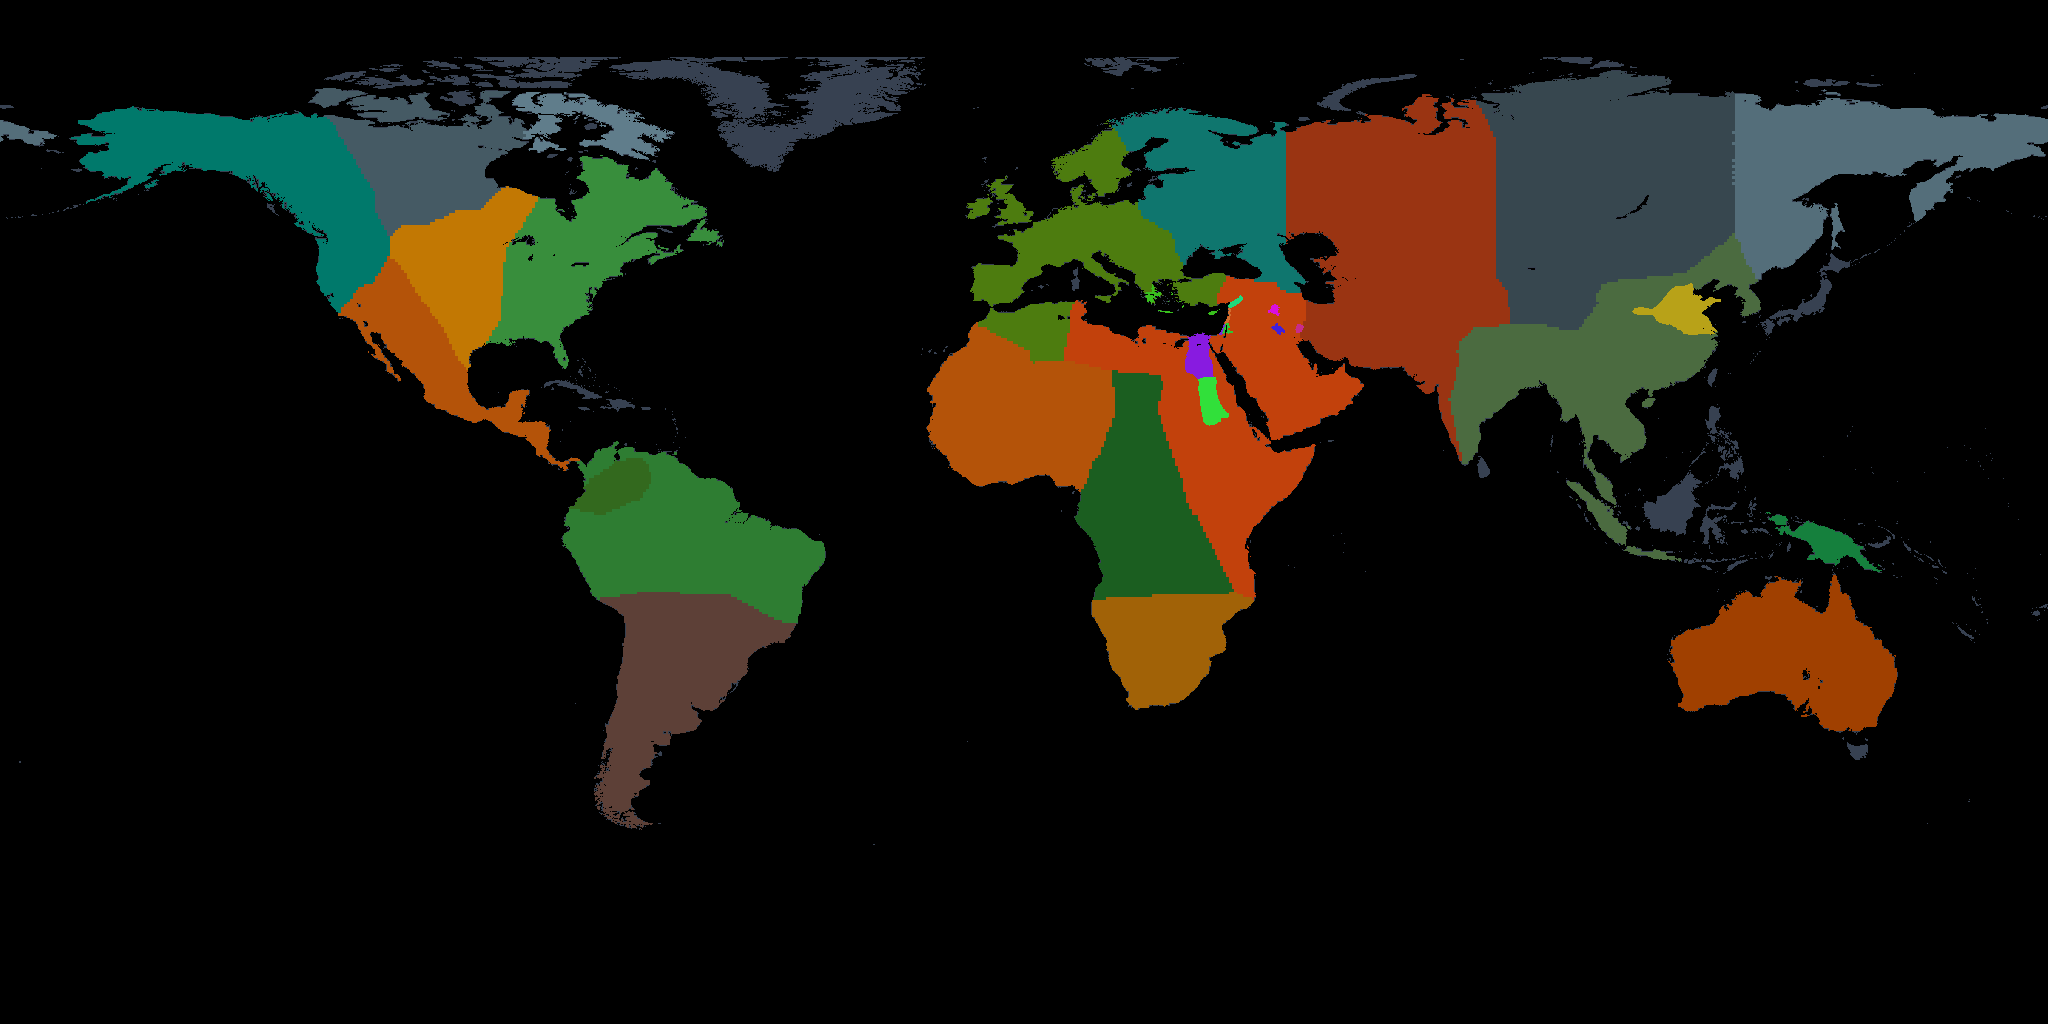
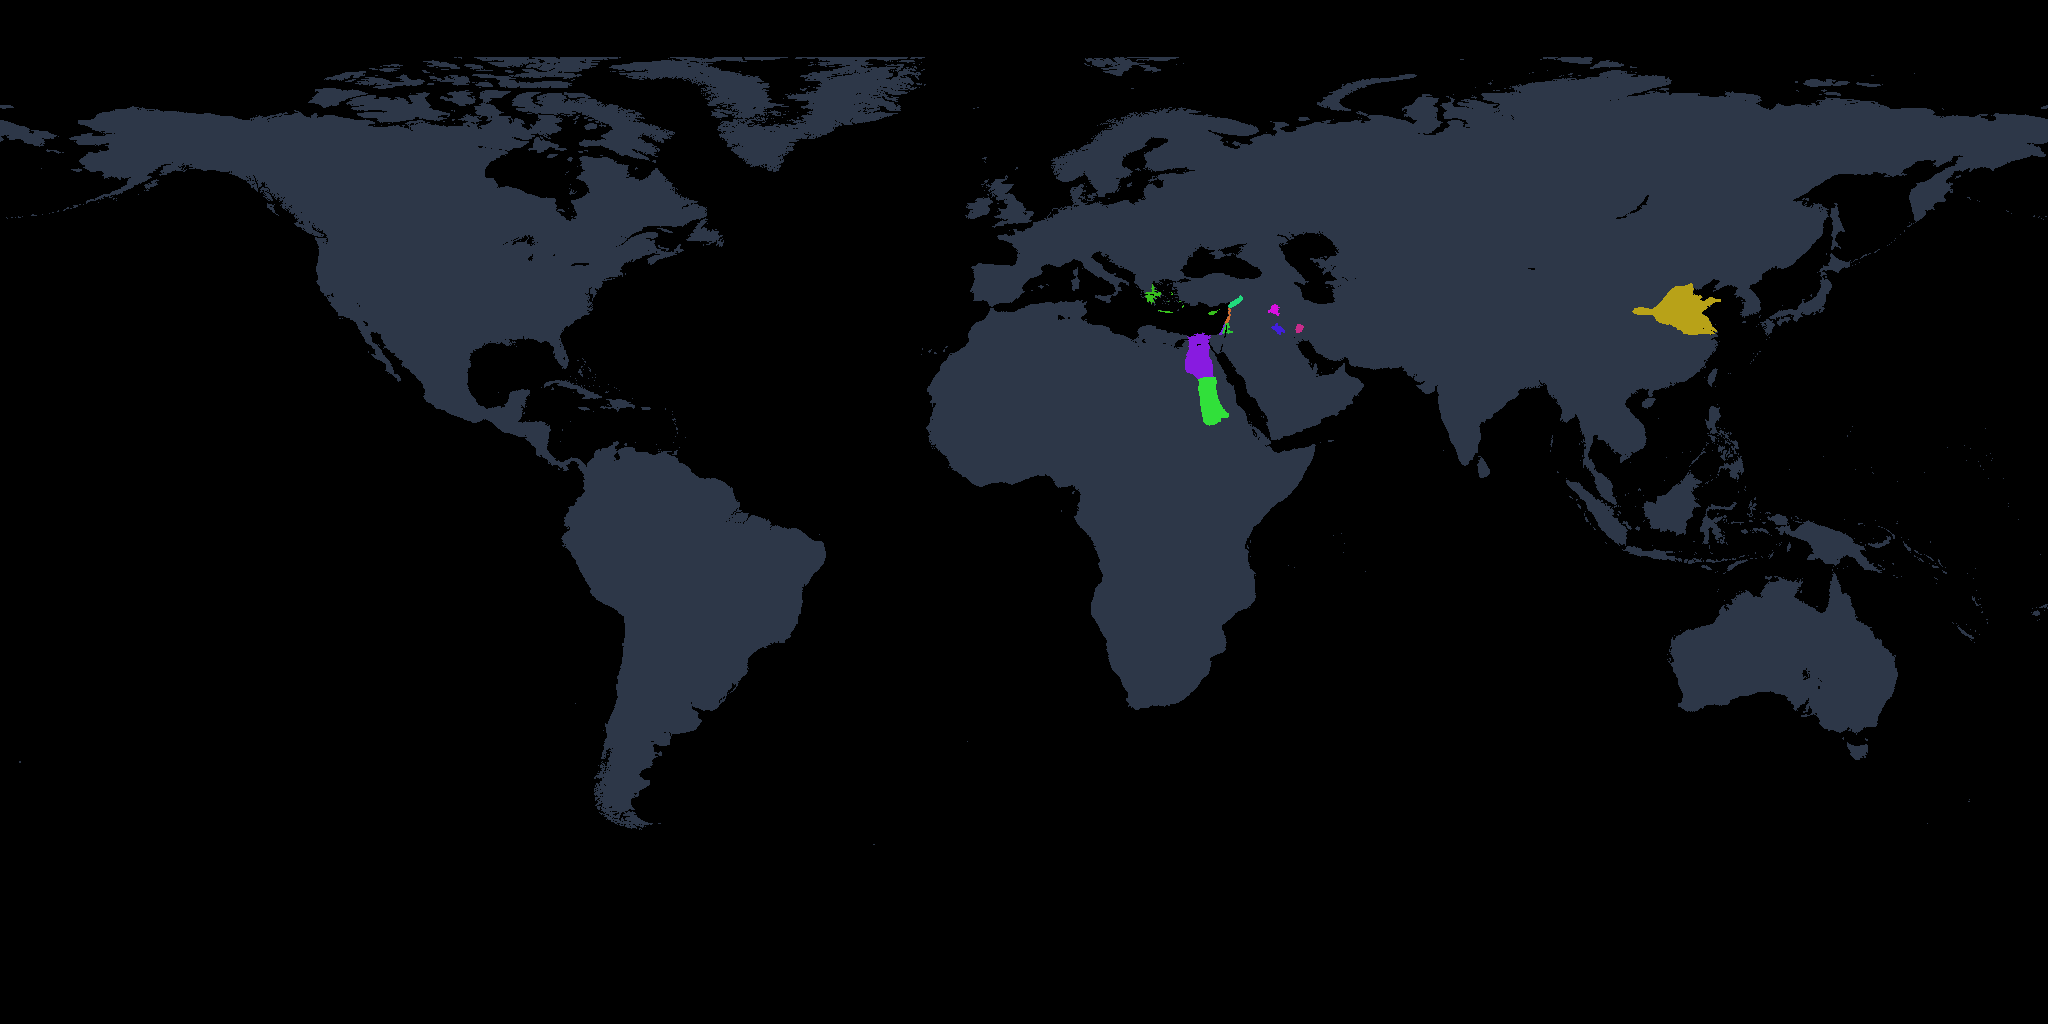
Refine Year 0 cartographic tensors: WHYMAP aquifers, non-state sovereignty slate, and ancient precious metals

Changed region(s): [[0.4375, 0.0938, 1.0, 0.6875], [0.0, 0.0625, 0.4062, 0.8125], [0.8125, 0.5, 0.9375, 0.7188]]

diff --git a/src/main/java/org/ether/society/data/HistoricalMapGenerator.java b/src/main/java/org/ether/society/data/HistoricalMapGenerator.java
@@ -2784,8 +2784,8 @@ public class HistoricalMapGenerator {
                 } else {
                     int currentRgb = sovImg.getRGB(x, y) & 0xFFFFFF;
                     if (currentRgb == 0x374151 || currentRgb == 0x000000) {
-                        int tribalColor = (tribalBg != null) ? tribalBg.getRGB(x, y) : 0x374151;
-                        sovImg.setRGB(x, y, tribalColor);
+                        int unassignedColor = (year >= 1900L && tribalBg != null) ? tribalBg.getRGB(x, y) : 0x2D3748;
+                        sovImg.setRGB(x, y, unassignedColor);
                     }
                 }
             }
@@ -4959,39 +4959,73 @@ public class HistoricalMapGenerator {
     }
 
     public static BufferedImage rasterizePreciousMetalsMap(String type, Scenario scenario) {
-        if (cachedPreciousMetalsMap != null) return cachedPreciousMetalsMap;
         int width = 2048, height = 1024;
         BufferedImage img = new BufferedImage(width, height, BufferedImage.TYPE_INT_RGB);
-        // Dedicated authentic metallogeny for Gold, Silver & Platinum (Ancient + Global Giant Reserves)
+        // Dedicated authentic metallogeny for Gold, Silver & Platinum (Ancient Mines + Global Giant Metallogenic Provinces)
         double[][] majorPrecious = {
-            // Authentic Ancient Historical Gold & Silver Mines (Antiquity & Medieval)
-            {-6.77, 42.46, 28, 2.5},  // Las Médulas (Hispania / Rome - World's Largest Ancient Gold Mine)
-            {-6.56, 37.69, 26, 2.4},  // Rio Tinto (Hispania / Rome - Silver & Gold)
-            {24.06, 37.71, 24, 2.3},  // Laurion (Attica / Greece - Silver of Classical Athens)
-            {23.13, 46.30, 26, 2.4},  // Roșia Montană / Dacia (Roman Imperial Gold Mines)
-            {33.50, 22.00, 28, 2.4},  // Nubia / Wadi Allaqi (Pharaonic & Ptolemaic Gold)
-            {67.50, 39.50, 26, 2.3},  // Bactria / Zeravshan Valley Gold (Sogdia / Silk Road)
-            {78.27, 12.96, 25, 2.2},  // Kolar Gold Fields (India / Maurya Empire)
-            {85.00, 50.00, 28, 2.3},  // Altai Mountains Gold Placers (Scythian Gold)
-            {-76.60, 5.70, 26, 2.2},   // Chocó / Calima (Colombia - Pre-Columbian Gold)
-            {-70.20, -14.20, 26, 2.3}, // Carabaya / Lake Titicaca (Peru - Inca Gold)
-            {138.30, 38.00, 24, 2.2}, // Sado Island Gold Mine (Japan)
+            // --- 1. Roman Empire, Hellenistic & Mediterranean Ancient Districts (Au, Ag, PGE) ---
+            {-6.77, 42.46, 4.5, 4.0},   // Las Médulas (León, Hispania - World's Largest Roman Hydraulic Gold Mine)
+            {-6.56, 37.69, 4.2, 3.8},   // Rio Tinto / Tharsis (Baetica / Huelva - Roman Silver & Gold Smelting)
+            {-4.84, 38.77, 4.0, 3.4},   // Almadén / Sierra Morena (Hispania - Roman Cinnabar, Silver & Gold)
+            {-8.10, 42.15, 3.8, 3.0},   // Castromao / Galicia Roman Gold Placers
+            {-6.60, 40.20, 3.8, 3.0},   // Sierra de Gata / Tagus Auriferous Alluvium
+            {24.06, 37.71, 4.5, 4.0},   // Laurion (Attica, Greece - Classical Athenian Silver Mines / Owl Tetradrachms)
+            {24.20, 40.90, 4.2, 3.6},   // Mount Pangaeon / Philippi (Macedonian Gold of Philip II & Alexander)
+            {23.13, 46.30, 4.5, 4.0},   // Roșia Montană / Alburnus Major (Dacia / Apuseni Mountains - Roman Imperial Gold)
+            {21.43, 42.62, 4.0, 3.2},   // Novo Brdo / Trepča (Balkans Silver & Gold)
+            {22.18, 42.08, 3.8, 3.0},   // Kratovo / Osogovo (Thracian/Roman Gold)
+            {24.70, 36.97, 3.2, 2.8},   // Siphnos (Cyclades Archaic Gold & Silver)
+            {8.03, 45.55, 4.0, 3.2},    // Victimulae / Bessa (Piedmont, Italy - Roman Gold Placers)
+            {7.30, 45.74, 3.8, 3.0},    // Val d'Aosta Roman Gold Veins
 
-            // Giant Global Metallogenic Provinces
-            {27.0, -26.5, 45, 2.8},   // Witwatersrand (South Africa - Giant Conglomerate Gold)
-            {29.0, -24.5, 42, 2.6},   // Bushveld Complex Platinum (South Africa)
-            {-116.0, 40.8, 38, 2.5},  // Carlin Trend Nevada (USA - Epithermal Gold)
-            {-65.7, -19.6, 42, 2.7},  // Potosí Cerro Rico (Bolivia - Giant Silver Mountain)
-            {121.5, -30.7, 36, 2.4},  // Kalgoorlie Golden Mile (Australia)
-            {64.6, 41.5, 38, 2.5},    // Muruntau (Uzbekistan - World's Largest Open-Pit Gold)
-            {88.2, 69.3, 40, 2.6},    // Norilsk-Talnakh PGMs (Russia)
-            {-81.0, 46.5, 35, 2.3},   // Sudbury Basin (Canada - PGMs/Au)
-            {-78.5, -7.0, 36, 2.4},   // Yanacocha (Peru - Epithermal Gold)
-            {137.1, -4.0, 38, 2.5}    // Grasberg (Indonesia - Porphyry Au/Cu)
+            // --- 2. Egypt, Nubia, Arabia & Near East (Pharaonic, Ptolemaic, Lydian & Persian) ---
+            {33.50, 22.00, 4.5, 3.8},   // Wadi Allaqi / Nubian Gold Belt (Pharaonic & Ptolemaic Gold / Nub means Gold)
+            {33.58, 25.99, 4.2, 3.5},   // Wadi Hammamat / Coptos (Gold Road of Pharaohs)
+            {34.80, 24.95, 4.2, 3.5},   // Sukari / Eastern Desert Gold (Egypt)
+            {40.87, 23.50, 4.5, 3.6},   // Mahd adh Dhahab (Cradle of Gold, Hejaz, Arabia - Ancient Gold Mine)
+            {28.04, 38.49, 4.2, 3.8},   // Sardis / Pactolus River (Lydia Electrum - Birth of Coinage)
+            {42.60, 42.25, 4.0, 3.4},   // Colchis / Svaneti Gold Placers (Georgia - Golden Fleece)
+            {44.38, 41.38, 3.8, 3.2},   // Sakdrisi / Bolnisi (Georgia - World's Oldest Known Gold Mine)
+            {67.50, 39.50, 4.5, 3.6},   // Zeravshan Valley / Sogdia (Bactrian & Silk Road Gold)
+
+            // --- 3. India, Central Asia & East Asia ---
+            {78.27, 12.96, 4.5, 3.8},   // Kolar Gold Fields (Karnataka, India - Maurya / Satavahana Gold)
+            {76.65, 16.20, 4.0, 3.2},   // Hutti Gold Mines (Raichur, India)
+            {85.00, 50.00, 4.5, 3.6},   // Altai Mountains Auriferous Placers (Scythian Nomadic Gold)
+            {120.40, 37.36, 4.5, 3.8},  // Zhaoyuan / Jiaodong Peninsula (Shandong, China - China's Gold Capital)
+            {117.81, 30.93, 4.2, 3.4},  // Tongling / Yangtze Copper-Gold Belt (Han Dynasty)
+            {112.50, 23.00, 4.0, 3.2},  // Lingnan / Pearl River Gold Placers (Southern China)
+            {138.30, 38.00, 4.0, 3.2},  // Sado Island Gold Mine (Japan)
+
+            // --- 4. Sub-Saharan Africa ---
+            {-11.50, 13.50, 4.8, 3.6},  // Bambouk / Falémé Goldfields (West Africa - Ancient Trans-Saharan Gold)
+            {-9.50, 11.50, 4.8, 3.6},   // Bure Goldfields (Upper Niger River)
+            {-1.67, 6.20, 4.8, 3.8},    // Ashanti Gold Belt / Obuasi (Ghana - Gold Coast)
+            {30.00, -20.00, 4.5, 3.4},  // Great Zimbabwe / Shona Gold Belt
+
+            // --- 5. Americas (Pre-Columbian & Historic Mining Districts) ---
+            {-76.60, 5.70, 4.8, 3.8},   // Chocó & Calima (Colombia - Pre-Columbian Gold & Platinum Placers)
+            {-79.50, -6.70, 4.5, 3.5},  // Moche / Lambayeque Valley (Peru - Ancient Sican/Moche Gold)
+            {-70.20, -14.20, 4.5, 3.6}, // Carabaya & Lake Titicaca Gold Belt (Inca Coricancha Gold)
+            {-65.75, -19.58, 5.5, 4.2}, // Cerro Rico / Potosí (Bolivia - Giant Silver Mountain)
+            {-102.58, 22.77, 5.0, 3.8}, // Zacatecas / Guanajuato Silver Belt (Mexico)
+
+            // --- 6. Giant Global Metallogenic Provinces (In-situ Crustal Endowments) ---
+            {27.0, -26.5, 6.0, 4.5},    // Witwatersrand Basin (South Africa - Giant Conglomerate Au)
+            {29.0, -24.5, 5.5, 4.2},    // Bushveld Complex Platinum Group Elements (South Africa)
+            {64.6, 41.5, 5.5, 4.2},     // Muruntau (Uzbekistan - World's Largest Open-Pit Gold Deposit)
+            {-116.0, 40.8, 5.0, 4.0},   // Carlin Trend (Nevada, USA - Giant Epithermal Au)
+            {121.5, -30.7, 5.0, 4.0},   // Kalgoorlie Golden Mile (Western Australia)
+            {150.8, 62.5, 5.5, 4.0},    // Kolyma / Magadan Gold Belt (Russia)
+            {88.2, 69.3, 5.5, 4.2},     // Norilsk-Talnakh PGMs & Au (Siberia, Russia)
+            {-81.0, 46.5, 4.8, 3.6},    // Sudbury Basin (Ontario, Canada - PGMs/Au)
+            {-78.5, -7.0, 5.0, 3.8},    // Yanacocha (Cajamarca, Peru - Epithermal Au)
+            {137.1, -4.0, 5.2, 4.0},    // Grasberg (Papua, Indonesia - Supergiant Au/Cu)
+            {116.36, -32.8, 4.8, 3.6}   // Boddington (Western Australia)
         };
         var list = new java.util.ArrayList<double[]>();
         for (double[] p : majorPrecious) list.add(p);
-        rasterizeSpotListToAlpha(img, list, Color.WHITE, 6.0);
+        rasterizeSpotListToAlpha(img, list, Color.WHITE, 4.5);
         cachedPreciousMetalsMap = img;
         return img;
     }
@@ -5116,52 +5150,72 @@ public class HistoricalMapGenerator {
     }
 
     public static BufferedImage rasterizeAquiferMap(String type, Scenario scenario) {
-        if (cachedAquiferMap != null) return cachedAquiferMap;
         int width = 2048, height = 1024;
         BufferedImage img = new BufferedImage(width, height, BufferedImage.TYPE_INT_RGB);
         BufferedImage mask = loadElevationMask();
 
         // Authentic UNESCO WHYMAP 2022 Regional Sedimentary Basin Groundwater Formations
-        // {centerLon, centerLat, semiLon, semiLat, maxLuminance}
+        // {centerLon, centerLat, semiLon, semiLat, angleDeg, maxLuminance}
         double[][] sedimentaryAquiferBasins = {
             // Nubian Sandstone Aquifer System (NSAS - Egypt, Libya, Chad, Sudan: 2.2M km²)
-            {25.0, 22.0, 10.0, 8.5, 230.0},
+            {25.0, 22.0, 11.5, 9.0, 15.0, 240.0},
             // Ogallala / High Plains Aquifer (US Midwest: 450,000 km²)
-            {-100.5, 38.0, 4.5, 6.0, 215.0},
+            {-101.0, 38.0, 4.8, 6.5, -10.0, 230.0},
             // Guaraní Aquifer System (Paraná Basin - Brazil, Paraguay, Argentina, Uruguay: 1.2M km²)
-            {-54.0, -25.0, 7.5, 9.0, 225.0},
+            {-54.0, -25.0, 8.0, 10.0, 25.0, 235.0},
             // Great Artesian Basin (GAB - Eastern/Central Australia: 1.7M km²)
-            {139.0, -25.5, 9.0, 8.5, 230.0},
+            {140.0, -25.5, 9.5, 9.0, -15.0, 240.0},
             // Northwest Sahara Aquifer System (NWSAS / SASS - Algeria, Tunisia, Libya: 1.0M km²)
-            {6.0, 31.0, 8.0, 4.5, 210.0},
-            // Indo-Gangetic Alluvial Aquifer (Indus, Ganges, Brahmaputra Foreland Basin)
-            {78.0, 27.5, 12.0, 3.5, 220.0},
+            {6.0, 31.0, 8.5, 5.0, 10.0, 225.0},
+            // Indo-Gangetic Alluvial Foreland Basin (Indus, Ganges, Brahmaputra)
+            {79.0, 27.0, 14.0, 4.0, -20.0, 235.0},
             // North China Plain Cenozoic Aquifer (Huang-Huai-Hai Plain)
-            {116.5, 37.0, 4.5, 4.0, 210.0},
-            // West Siberian Artesian Basin (Vast Mesozoic-Cenozoic Sedimentary Basin)
-            {72.0, 59.0, 12.0, 7.0, 215.0},
+            {116.5, 36.5, 5.0, 4.5, 30.0, 225.0},
+            // Songliao Sedimentary Basin (Northeast China)
+            {124.5, 45.0, 4.5, 5.0, 15.0, 210.0},
+            // West Siberian Artesian Basin (Vast Mesozoic-Cenozoic Sedimentary Basin: 3.0M km²)
+            {72.0, 59.0, 14.0, 8.5, 0.0, 230.0},
             // Amazon Sedimentary Basin (Alter do Chão / Solimões Alluvial Trough)
-            {-62.0, -3.0, 12.0, 5.0, 235.0},
+            {-62.0, -3.5, 14.0, 5.5, -5.0, 245.0},
             // Congo Sedimentary Basin (Cuvette Centrale)
-            {21.5, -0.5, 6.5, 6.0, 215.0},
+            {21.5, -0.5, 7.5, 6.8, 0.0, 230.0},
             // Paris & Aquitaine Mesozoic Synclines (Western Europe)
-            {2.0, 47.5, 4.5, 3.5, 185.0},
+            {2.0, 47.5, 5.0, 4.0, 45.0, 205.0},
             // Canning Basin Sedimentary Aquifer (Western Australia)
-            {124.0, -19.0, 5.5, 4.0, 190.0},
+            {124.0, -19.0, 6.0, 4.5, -15.0, 210.0},
             // Tarim Basin Endorheic Aquifer (Taklamakan Basin)
-            {82.5, 39.0, 7.0, 3.0, 195.0},
+            {82.5, 39.0, 7.5, 3.5, 0.0, 215.0},
             // California Central Valley Forearc Alluvium
-            {-119.8, 36.8, 1.8, 4.0, 180.0},
+            {-119.8, 36.8, 2.0, 4.5, -35.0, 205.0},
             // Arabian Sedimentary Formations (Wajid, Wasia-Biyadh, Rub' al Khali)
-            {47.0, 23.5, 7.5, 6.5, 205.0},
+            {47.0, 23.5, 8.5, 7.0, 35.0, 220.0},
             // Chad Basin Continental Terminal
-            {16.0, 14.0, 6.5, 5.0, 200.0},
+            {16.0, 14.0, 7.5, 5.5, 0.0, 215.0},
             // Kalahari & Karoo Sandstone Basins (Southern Africa)
-            {22.5, -23.0, 6.0, 5.5, 195.0},
+            {22.5, -23.0, 7.0, 6.0, 15.0, 210.0},
             // Mississippi Embayment / Gulf Coastal Plain Aquifer
-            {-90.0, 32.5, 5.5, 4.5, 200.0},
+            {-90.0, 32.5, 6.0, 5.0, 25.0, 220.0},
             // Baltic & North German Sedimentary Basin
-            {16.0, 53.5, 7.0, 3.0, 180.0}
+            {16.0, 53.5, 8.0, 3.5, 10.0, 200.0},
+            // Pannonian Basin (Danube / Carpathian Foredeep)
+            {19.5, 46.5, 4.0, 3.0, 0.0, 195.0},
+            // Dzungarian Basin (Northwest China)
+            {86.0, 45.0, 4.5, 3.0, 15.0, 195.0}
+        };
+
+        // Major Continental Alluvial Floodplains (Groundwater recharge corridors)
+        double[][] majorAlluvials = {
+            {31.5, 26.0, 1.2, 5.5},    // Nile Valley Alluvium
+            {-90.5, 35.0, 2.0, 7.0},   // Mississippi Alluvial Valley
+            {-60.0, -3.0, 15.0, 3.0},  // Amazon River Trough
+            {-59.0, -32.0, 3.0, 6.0},  // Paraná-Río de la Plata Basin
+            {72.0, 29.0, 3.0, 6.0},    // Indus River Floodplain
+            {85.0, 25.5, 8.0, 2.5},    // Ganges-Brahmaputra Floodplain
+            {115.0, 32.0, 6.0, 3.0},   // Yangtze Lower Plain
+            {116.0, 36.0, 5.0, 3.0},   // Yellow River Alluvial Fan
+            {20.0, 45.0, 6.0, 2.5},    // Danube Plain Alluvium
+            {44.0, 33.0, 4.0, 4.0},    // Tigris-Euphrates Mesopotamia
+            {143.0, -34.0, 4.0, 3.0}   // Murray-Darling Basin
         };
 
         for (int y = 0; y < height; y++) {
@@ -5178,26 +5232,53 @@ public class HistoricalMapGenerator {
                     continue;
                 }
 
-                // Elevation screening: crystalline mountain crests (>1200m) have poor sedimentary storage
+                // Elevation screening: Lowland sedimentary plains have thick alluvial storage, high crests have poor retention
                 double elevM = (mask != null) ? (land / 255.0) * 8848.0 : 200.0;
-                double orographicCapacityFactor = (elevM > 1200.0) ? Math.max(0.1, 1.0 - (elevM - 1200.0) / 2000.0) : 1.0;
+                double orographicCapacityFactor;
+                if (elevM <= 400.0) {
+                    orographicCapacityFactor = 1.0;
+                } else if (elevM <= 1200.0) {
+                    orographicCapacityFactor = 1.0 - (elevM - 400.0) / 1000.0 * 0.60;
+                } else {
+                    orographicCapacityFactor = Math.max(0.12, 0.40 - (elevM - 1200.0) / 2500.0 * 0.30);
+                }
 
-                // Sum contribution across bounded sedimentary basin ellipses
-                double aquiferYield = 15.0; // Baseline continental minor groundwater
+                // Continental baseline groundwater for all sedimentary lowlands
+                double aquiferYield = 45.0 * orographicCapacityFactor;
+
+                // Alluvial floodplain recharge corridors
+                for (double[] al : majorAlluvials) {
+                    double dLon = (lon - al[0]) / al[2];
+                    double dLat = (lat - al[1]) / al[3];
+                    double d2 = dLon * dLon + dLat * dLat;
+                    if (d2 < 1.0) {
+                        double boost = (1.0 - d2) * 55.0 * orographicCapacityFactor;
+                        aquiferYield += boost;
+                    }
+                }
+
+                // Sum contribution across bounded sedimentary basin formations (anisotropic rotated ellipses)
                 for (double[] b : sedimentaryAquiferBasins) {
-                    double dLon = (lon - b[0]) / b[2];
-                    double dLat = (lat - b[1]) / b[3];
-                    double distNormSq = dLon * dLon + dLat * dLat;
-                    if (distNormSq < 2.25) { // 1.5 radius cutoff for crisp geological basin boundary
-                        double basinProfile = Math.max(0.0, 1.0 - (distNormSq / 2.25));
-                        double yield = b[4] * Math.pow(basinProfile, 0.65);
+                    double rad = Math.toRadians(b[4]);
+                    double cosA = Math.cos(rad);
+                    double sinA = Math.sin(rad);
+                    double dx = lon - b[0];
+                    double dy = lat - b[1];
+                    double rotX = (dx * cosA + dy * sinA) / b[2];
+                    double rotY = (-dx * sinA + dy * cosA) / b[3];
+                    double distNormSq = rotX * rotX + rotY * rotY;
+
+                    if (distNormSq < 1.0) {
+                        // Structural basin profile with realistic parabolic sediment compaction gradient
+                        double basinProfile = 1.0 - distNormSq;
+                        double yield = b[5] * Math.pow(basinProfile, 0.45) * orographicCapacityFactor;
                         aquiferYield = Math.max(aquiferYield, yield);
                     }
                 }
 
-                // Micro-lithological sandstone/alluvium texture (15% pseudo-random stratigraphic grain)
-                double stratNoise = 0.90 + 0.20 * (Math.sin(lon * 4.5) * Math.cos(lat * 4.5) * 0.5 + 0.5);
-                int finalLuminance = Math.clamp((int) Math.round(aquiferYield * orographicCapacityFactor * stratNoise), 0, 255);
+                // Micro-lithological sandstone/alluvium texture (12% realistic stratigraphic bed variation)
+                double stratNoise = 0.92 + 0.16 * (Math.sin(lon * 5.0 + lat * 2.0) * Math.cos(lat * 5.0 - lon * 2.0) * 0.5 + 0.5);
+                int finalLuminance = Math.clamp((int) Math.round(aquiferYield * stratNoise), 0, 255);
                 img.setRGB(x, y, (finalLuminance << 16) | (finalLuminance << 8) | finalLuminance);
             }
         }

diff --git a/src/main/java/org/ether/society/data/CliopatriaPolityVectorReader.java b/src/main/java/org/ether/society/data/CliopatriaPolityVectorReader.java
@@ -98,9 +98,10 @@ public class CliopatriaPolityVectorReader {
                         if (occWeight <= 0.001 && targetYear < 1900L) {
                             img.setRGB(x, y, 0x000000);
                         } else {
-                            // Unclaimed / stateless inhabited frontier -> assign authentic orographic tribal domain
-                            int tribalColor = (tribalBg != null) ? tribalBg.getRGB(x, y) : 0x374151;
-                            img.setRGB(x, y, tribalColor);
+                            // In antiquity and historical eras (<1900 AD), stateless and tribal territories lack Westphalian central sovereignty.
+                            // Render them in a neutral, dignified slate tone (#2D3748) so that authentic sovereign states (Rome, Han, Parthia, etc.) stand out sharply.
+                            int unassignedColor = (targetYear >= 1900L && tribalBg != null) ? tribalBg.getRGB(x, y) : 0x2D3748;
+                            img.setRGB(x, y, unassignedColor);
                         }
                     }
                 }
